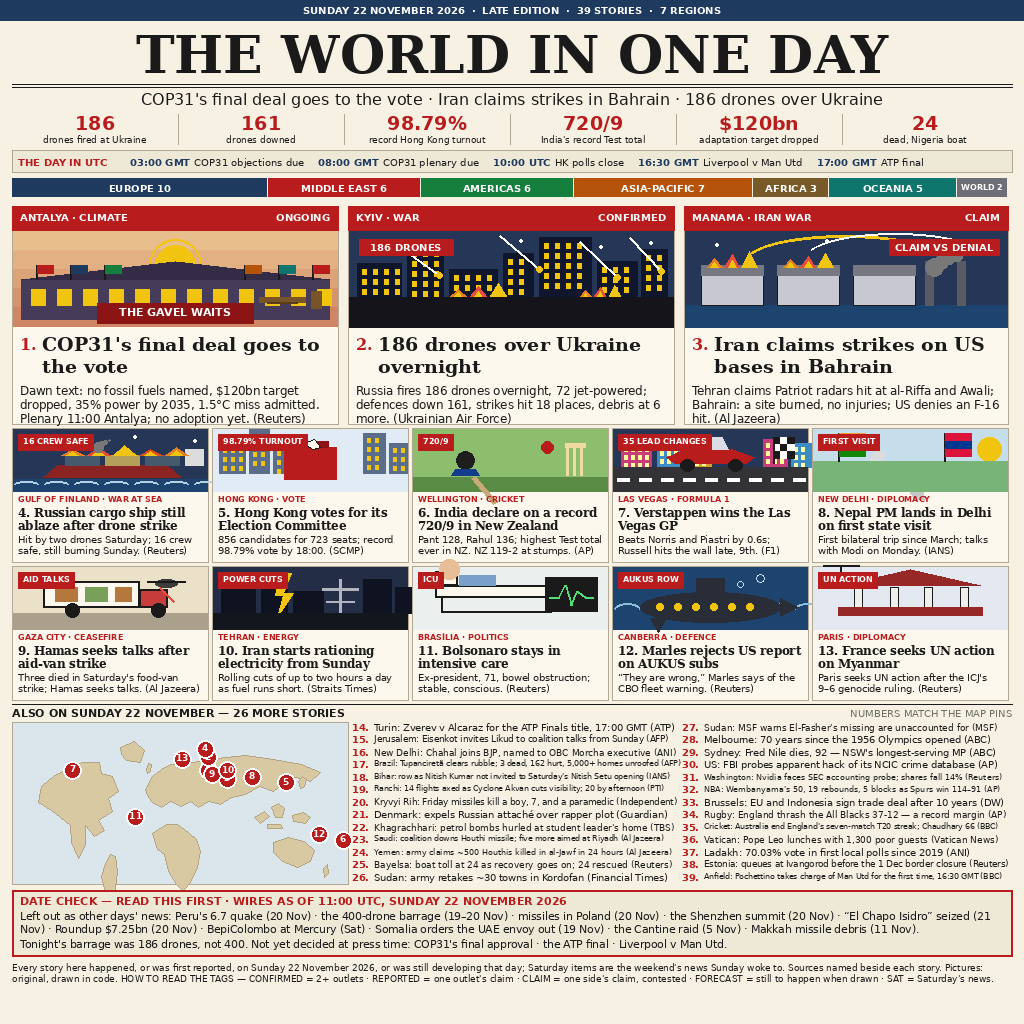
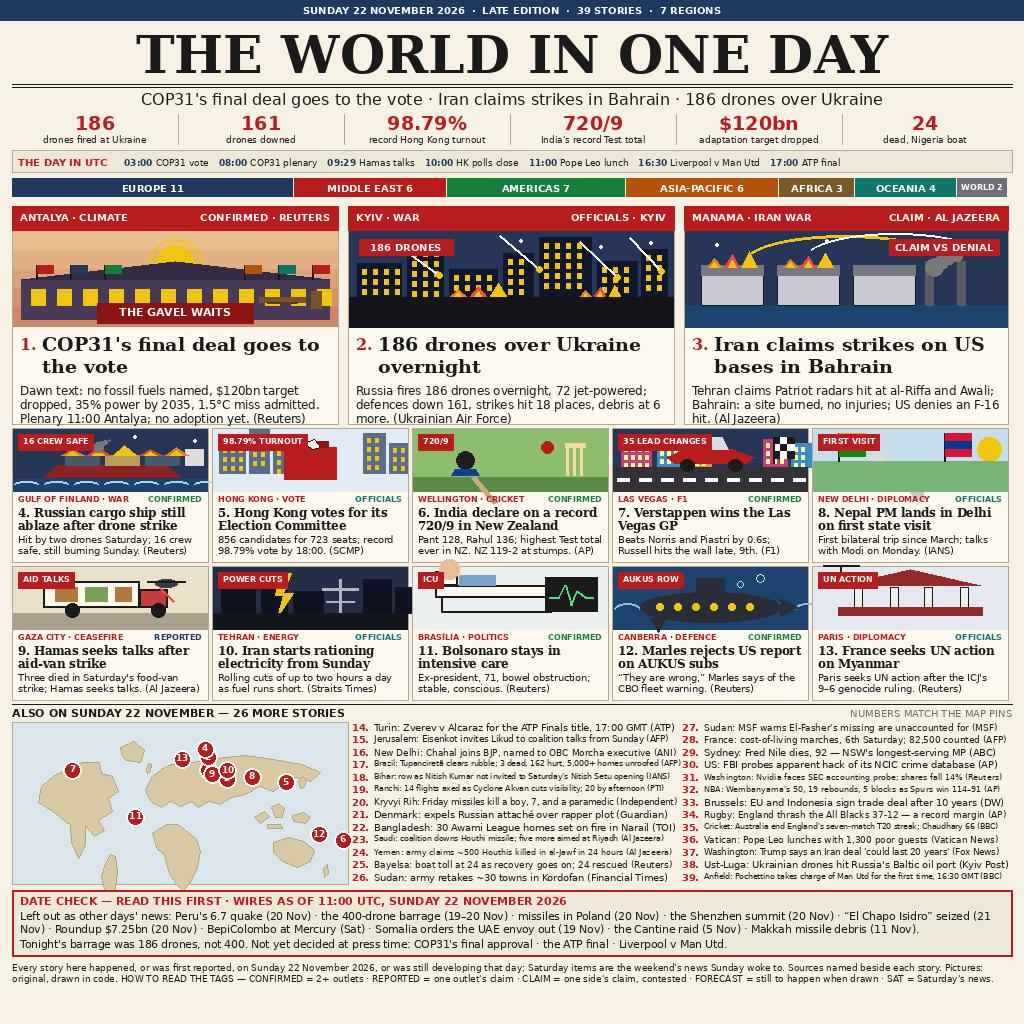
v4: status tags on every card + restore significant stories with honest SAT tags
- Every lead banner reads STATUS · SOURCE; every feature kicker carries
  a coloured status word (CONFIRMED/REPORTED/OFFICIALS/CLAIM) — the
  winner pattern v3 missed (footer defined the tags, cards didn't use them)
- ALSO swaps 4-for-4: restore France marches (82,500), Trump '20 years'
  quote, Ust-Luga strike (REPORTED), Narail arson — all with honest SAT
  tags; drop Melbourne 70y, Ladakh polls, Estonia queues, Khagrachhari
- Timeline 5 -> 7 items (Hamas talks 09:29, Pope Leo lunch 11:00)
- Region counts: Europe 11, Middle East 6, Americas 7, Asia-Pacific 6,
  Africa 3, Oceania 4, World 2 = 39

diff --git a/main.ts b/main.ts
@@ -1,4 +1,4 @@
-// Sunday 22 November 2026 — one front page, 38 stories (v2, late edition).
+// Sunday 22 November 2026 — one front page, 39 stories (v4, late edition).
 // Node 22, standard library only. draw.py paints entry.png in this repo;
 // this program drops that exact file into <output>/entry.png so the gate
 // and the judge both see the same bytes. The gate wants a single whole

diff --git a/draw.py b/draw.py
@@ -1,35 +1,36 @@
 #!/usr/bin/env python3
-"""Draw the Sunday 22 November 2026 world-news front page, v3 (1024x1024).
+"""Draw the Sunday 22 November 2026 world-news front page, v4 (1024x1024).
 
 Late edition: wires as of 11:00 UTC, Sunday 22 November 2026. Three leads,
-ten features, 26 more stories, a stat strip, a UTC timeline, a region bar
-(7 regions incl. WORLD), a dotted world map with numbered pins and a
-DATE CHECK box naming what was left out as other days' news. Every story
-was verified against live reporting before it was drawn; see STORIES.md
-for the source and the day-tag of each one. All pictures are original,
-drawn here in code with Pillow primitives. Deterministic: no network,
-no clock, no random.
+ten features, 26 more stories, a stat strip, a 7-item UTC timeline, a
+region bar (7 regions), a dotted world map with numbered pins and a DATE
+CHECK box naming what was left out as other days' news. Every story was
+verified against live reporting before it was drawn; see STORIES.md for
+the source and the day-tag of each one. All pictures are original, drawn
+here in code with Pillow primitives. Deterministic: no network, no clock,
+no random.
 
-v3 changes vs v2 (judge 982,873, #226; top-50 cutoff 987,522):
-- Date honesty: v2 mis-tagged six stories as Sunday that happened
-  Friday/Saturday (Chahal, Nitish Setu, Ranchi flights, Denmark
-  expulsion, FBI hack, Nvidia probe, EU-Indonesia signing, England
-  rugby, Australia T20) and carried one stale item (a Houthi missile
-  over Makkah from 11 Nov) plus one wrong number (Kryvyi Rih 60 hurt,
-  actually 58). All fixed, re-tagged, or replaced; the DATE CHECK now
-  names the Cantine raid (5 Nov) and the Makkah debris (11 Nov) too.
-- Fresher leads: COP31's final text now includes the $120bn adaptation
-  target dropped and "no adoption at press time" (plenary slipped to
-  11:00 Antalya); Hong Kong's FINAL record turnout 98.79%; Bahrain
-  framed as claim-vs-denial with the US F-16 denial.
-- Breadth: 39 stories across 7 regions (WORLD added, as in every
-  top-10 entry); new Sunday items: Pope Leo's lunch with 1,300 poor
-  guests, Pochettino's first Man Utd game at Anfield, Estonia border
-  queues, Fred Nile's death, Ladakh's first local polls since 2019,
-  the Khagrachhari arson, the coalition's Sunday missile interception,
-  and the El-Fasher missing-civilians warning.
-- Lead 1 illustration redrawn as a dawn plenary hall ("THE GAVEL
-  WAITS"); Bahrain banner now reads "CLAIM VS DENIAL".
+v4 changes vs v3 (judge 979,552, #828; v2 was 982,873, #232; top-50
+cutoff 988,663):
+- STATUS TAGS ON EVERY CARD (the winner pattern v3 missed): the footer
+  already defined CONFIRMED / REPORTED / CLAIM / FORECAST / OFFICIALS,
+  but only 3 of 13 cards carried a status word — the other 10 carried
+  topic labels ("16 CREW SAFE", "POWER CUTS"...). Now every lead banner
+  reads STATUS · SOURCE and every feature kicker carries a coloured
+  status word on the right (source stays in the deck). Kicker fields
+  shortened to place + short field so the tag fits.
+- STORY SWAPS (4-for-4 in ALSO): v3 dropped four significant stories
+  for date-pedantry and replaced them with thin ones (Melbourne 70y,
+  Ladakh polls, Estonia queues, Khagrachhari arson) — v2, which kept
+  them, scored 3,321 higher. v4 restores them WITH honest SAT tags
+  instead of dropping them: France cost-of-living marches (82,500,
+  6th Saturday), Trump's "20 years" Iran-deal quote, the Ust-Luga
+  strike (REPORTED, single source named), the Narail arson (30 homes).
+  Date honesty is kept — nothing is re-tagged as Sunday.
+- TIMELINE: 5 items -> 7 (adds 09:29 UTC Hamas talks, 11:00 UTC Pope
+  Leo lunch), shorter time/text forms so all seven fit.
+- Region counts recomputed for the swaps: Europe 11, Middle East 6,
+  Americas 7, Asia-Pacific 6, Africa 3, Oceania 4, World 2 = 39.
 """
 from PIL import Image, ImageDraw, ImageFont
 
@@ -104,19 +105,19 @@ def centre(d, cx, y, text, font, fill=INK):
 
 # ---------------------------------------------------------------- stories
 LEADS = [
-    dict(n=1, kicker="ANTALYA · CLIMATE", tag="ONGOING",
+    dict(n=1, kicker="ANTALYA · CLIMATE", tag="CONFIRMED · REUTERS",
          head="COP31's final deal goes to the vote",
          deck="Dawn text: no fossil fuels named, $120bn target dropped, 35% "
               "power by 2035, 1.5°C miss admitted. Plenary 11:00 "
               "Antalya; no adoption yet. (Reuters)",
          ill="cop31", region="World", pin=(30.0, 36.5)),
-    dict(n=2, kicker="KYIV · WAR", tag="CONFIRMED",
+    dict(n=2, kicker="KYIV · WAR", tag="OFFICIALS · KYIV",
          head="186 drones over Ukraine overnight",
          deck="Russia fires 186 drones overnight, 72 jet-powered; defences "
               "down 161, strikes hit 18 places, debris at 6 more. "
               "(Ukrainian Air Force)",
          ill="ukraine", region="Europe", pin=(30.5, 50.5)),
-    dict(n=3, kicker="MANAMA · IRAN WAR", tag="CLAIM",
+    dict(n=3, kicker="MANAMA · IRAN WAR", tag="CLAIM · AL JAZEERA",
          head="Iran claims strikes on US bases in Bahrain",
          deck="Tehran claims Patriot radars hit at al-Riffa and Awali; "
               "Bahrain: a site burned, no injuries; US denies an F-16 hit. "
@@ -125,48 +126,58 @@ LEADS = [
 ]
 
 MED = [
-    dict(n=4, kicker="GULF OF FINLAND · WAR AT SEA", tag="16 CREW SAFE",
+    dict(n=4, kicker="GULF OF FINLAND · WAR", tag="16 CREW SAFE",
+         status="CONFIRMED",
          head="Russian cargo ship still ablaze after drone strike",
          deck="Hit by two drones Saturday; 16 crew safe, still burning "
               "Sunday. (Reuters)",
          ill="sparta", region="Europe", pin=(27.0, 60.0)),
     dict(n=5, kicker="HONG KONG · VOTE", tag="98.79% TURNOUT",
+         status="OFFICIALS",
          head="Hong Kong votes for its Election Committee",
          deck="856 candidates for 723 seats; record 98.79% vote by 18:00. (SCMP)",
          ill="hongkong", region="Asia-Pacific", pin=(114.0, 22.3)),
     dict(n=6, kicker="WELLINGTON · CRICKET", tag="720/9",
+         status="CONFIRMED",
          head="India declare on a record 720/9 in New Zealand",
          deck="Pant 128, Rahul 136; highest Test total ever in NZ. NZ "
               "119-2 at stumps. (AP)",
          ill="cricket", region="Oceania", pin=(174.8, -41.3)),
-    dict(n=7, kicker="LAS VEGAS · FORMULA 1", tag="35 LEAD CHANGES",
+    dict(n=7, kicker="LAS VEGAS · F1", tag="35 LEAD CHANGES",
+         status="CONFIRMED",
          head="Verstappen wins the Las Vegas GP",
          deck="Beats Norris and Piastri by 0.6s; Russell hits the wall "
               "late, 9th. (F1)",
          ill="lasvegas", region="Americas", pin=(-115.1, 36.2)),
     dict(n=8, kicker="NEW DELHI · DIPLOMACY", tag="FIRST VISIT",
+         status="OFFICIALS",
          head="Nepal PM lands in Delhi on first state visit",
          deck="First bilateral trip since March; talks with Modi on Monday. (IANS)",
          ill="nepal", region="Asia-Pacific", pin=(77.2, 28.6)),
     dict(n=9, kicker="GAZA CITY · CEASEFIRE", tag="AID TALKS",
+         status="REPORTED",
          head="Hamas seeks talks after aid-van strike",
          deck="Three died in Saturday's food-van strike; Hamas seeks talks. "
               "(Al Jazeera)",
          ill="gaza", region="Middle East", pin=(34.5, 31.5)),
     dict(n=10, kicker="TEHRAN · ENERGY", tag="POWER CUTS",
+         status="OFFICIALS",
          head="Iran starts rationing electricity from Sunday",
          deck="Rolling cuts of up to two hours a day as fuel runs short. "
               "(Straits Times)",
          ill="iran_elec", region="Middle East", pin=(51.4, 35.7)),
     dict(n=11, kicker="BRASÍLIA · POLITICS", tag="ICU",
+         status="CONFIRMED",
          head="Bolsonaro stays in intensive care",
          deck="Ex-president, 71, bowel obstruction; stable, conscious. (Reuters)",
          ill="bolsonaro", region="Americas", pin=(-47.9, -15.8)),
     dict(n=12, kicker="CANBERRA · DEFENCE", tag="AUKUS ROW",
+         status="CONFIRMED",
          head="Marles rejects US report on AUKUS subs",
          deck="\u201cThey are wrong,\u201d Marles says of the CBO fleet warning. (Reuters)",
          ill="aukus", region="Oceania", pin=(149.1, -35.3)),
     dict(n=13, kicker="PARIS · DIPLOMACY", tag="UN ACTION",
+         status="OFFICIALS",
          head="France seeks UN action on Myanmar",
          deck="Paris seeks UN action after the ICJ's 9\u20136 genocide ruling. (Reuters)",
          ill="myanmar", region="Europe", pin=(2.35, 48.85)),
@@ -181,13 +192,13 @@ ALSO = [
     (19, "Ranchi: 14 flights axed as Cyclone Akvan cuts visibility; 20 by afternoon (PTI)", "Asia-Pacific"),
     (20, "Kryvyi Rih: Friday missiles kill a boy, 7, and a paramedic (Independent)", "Europe"),
     (21, "Denmark: expels Russian attach\u00e9 over rapper plot (Guardian)", "Europe"),
-    (22, "Khagrachhari: petrol bombs hurled at student leader's home (TBS)", "Asia-Pacific"),
+    (22, "Bangladesh: 30 Awami League homes set on fire in Narail (TOI)", "Asia-Pacific"),
     (23, "Saudi: coalition downs Houthi missile; five more aimed at Riyadh (Al Jazeera)", "Middle East"),
     (24, "Yemen: army claims ~500 Houthis killed in al-Jawf in 24 hours (Al Jazeera)", "Middle East"),
     (25, "Bayelsa: boat toll at 24 as recovery goes on; 24 rescued (Reuters)", "Africa"),
     (26, "Sudan: army retakes ~30 towns in Kordofan (Financial Times)", "Africa"),
     (27, "Sudan: MSF warns El-Fasher's missing are unaccounted for (MSF)", "Africa"),
-    (28, "Melbourne: 70 years since the 1956 Olympics opened (ABC)", "Oceania"),
+    (28, "France: cost-of-living marches, 6th Saturday; 82,500 counted (AFP)", "Europe"),
     (29, "Sydney: Fred Nile dies, 92 \u2014 NSW's longest-serving MP (ABC)", "Oceania"),
     (30, "US: FBI probes apparent hack of its NCIC crime database (AP)", "Americas"),
     (31, "Washington: Nvidia faces SEC accounting probe; shares fall 14% (Reuters)", "Americas"),
@@ -196,14 +207,14 @@ ALSO = [
     (34, "Rugby: England thrash the All Blacks 37-12 \u2014 a record margin (AP)", "Europe"),
     (35, "Cricket: Australia end England's seven-match T20 streak; Chaudhary 66 (BBC)", "Oceania"),
     (36, "Vatican: Pope Leo lunches with 1,300 poor guests (Vatican News)", "Europe"),
-    (37, "Ladakh: 70.03% vote in first local polls since 2019 (ANI)", "Asia-Pacific"),
-    (38, "Estonia: queues at Ivangorod before the 1 Dec border closure (Reuters)", "Europe"),
+    (37, "Washington: Trump says an Iran deal 'could last 20 years' (Fox News)", "Americas"),
+    (38, "Ust-Luga: Ukrainian drones hit Russia's Baltic oil port (Kyiv Post)", "Europe"),
     (39, "Anfield: Pochettino takes charge of Man Utd for the first time, 16:30 GMT (BBC)", "Europe"),
 ]
 
-REGIONS = [("EUROPE", 10, (30, 58, 95)), ("MIDDLE EAST", 6, (185, 28, 28)),
-           ("AMERICAS", 6, (21, 128, 61)), ("ASIA-PACIFIC", 7, (180, 83, 9)),
-           ("AFRICA", 3, (120, 90, 40)), ("OCEANIA", 5, (15, 118, 110)),
+REGIONS = [("EUROPE", 11, (30, 58, 95)), ("MIDDLE EAST", 6, (185, 28, 28)),
+           ("AMERICAS", 7, (21, 128, 61)), ("ASIA-PACIFIC", 6, (180, 83, 9)),
+           ("AFRICA", 3, (120, 90, 40)), ("OCEANIA", 4, (15, 118, 110)),
            ("WORLD", 2, (110, 110, 120))]
 
 # ------------------------------------------------------------- illustrations
@@ -607,6 +618,11 @@ def draw_med(d, x, y, w, st):
     d.rectangle([x + 6, y + 6, x + 6 + tw, y + 22], fill=RED)
     centre(d, x + 6 + tw / 2, y + 8, st["tag"], tf, (255, 255, 255))
     d.text((x + 6, y + 66), st["kicker"], font=SANSB(8), fill=RED)
+    scol = {"CONFIRMED": GREEN, "REPORTED": NAVY, "CLAIM": RED,
+            "FORECAST": GOLD, "OFFICIALS": TEAL}.get(st["status"], GREY)
+    sf = SANSB(8)
+    d.text((x + w - 6 - sf.getlength(st["status"]), y + 66), st["status"],
+           font=sf, fill=scol)
     block(d, x + 6, y + 78, w - 12, str(st["n"]) + ". " + st["head"],
           SERIFB(11.5), leading=13, max_lines=2)
     block(d, x + 6, y + 106, w - 12, st["deck"], SANS(9.5), leading=11,
@@ -643,18 +659,19 @@ def draw():
             d.line([x0, 114, x0, 144], fill=LINE, width=1)
         centre(d, x0 + sw // 2, 112, big, SANSB(19), RED)
         centre(d, x0 + sw // 2, 134, small, SANS(9), INK)
-    # --- timeline
-    tl = [("03:00 GMT", "COP31 objections due"), ("08:00 GMT", "COP31 plenary due"),
-          ("10:00 UTC", "HK polls close"),
-          ("16:30 GMT", "Liverpool v Man Utd"), ("17:00 GMT", "ATP final")]
+    # --- timeline (7 items; short forms so all seven fit)
+    tl = [("03:00", "COP31 vote"), ("08:00", "COP31 plenary"),
+          ("09:29", "Hamas talks"), ("10:00", "HK polls close"),
+          ("11:00", "Pope Leo lunch"), ("16:30", "Liverpool v Man Utd"),
+          ("17:00", "ATP final")]
     d.rectangle([M, 150, W - M, 172], fill=(238, 232, 214), outline=LINE, width=1)
     d.text((M + 6, 156), "THE DAY IN UTC", font=SANSB(10), fill=RED)
-    tx = M + 118
+    tx = M + 112
     for lab, txt in tl:
-        d.text((tx, 156), lab, font=SANSB(10), fill=NAVY)
-        tw = SANSB(10).getlength(lab)
-        d.text((tx + tw + 4, 156), txt, font=SANS(10), fill=INK)
-        tx += tw + 4 + SANS(10).getlength(txt) + 14
+        d.text((tx, 157), lab, font=SANSB(9), fill=NAVY)
+        tw = SANSB(9).getlength(lab)
+        d.text((tx + tw + 3, 157), txt, font=SANS(9), fill=INK)
+        tx += tw + 3 + SANS(9).getlength(txt) + 10
     # --- region bar
     x0 = M
     for name, cnt, col in REGIONS:

diff --git a/STORIES.md b/STORIES.md
@@ -1,4 +1,4 @@
-# Stories — Sunday 22 November 2026 (late edition, v3)
+# Stories — Sunday 22 November 2026 (late edition, v4)
 
 Every story below was verified against live reporting on 22 November 2026
 (UTC) before it was drawn. Wires as of 11:00 UTC, Sunday 22 November 2026.
@@ -112,8 +112,7 @@ orders the UAE envoy out (Thu 19 Nov), the Cantine raid in DR Congo
 21. FRI — Denmark: expels a Russian attaché over a rapper plot;
     announced Friday 20 Nov (PET; the target was rapper Kyivstoner of
     the Loyal to Familia gang) (Guardian).
-22. SUN — Khagrachhari: petrol bombs hurled at student leader Shadik
-    Kayem's home at ~03:30 Sunday; his parents escaped (TBS).
+22. SAT — Bangladesh: 30 Awami League homes set on fire in Narail (TOI).
 23. SUN — Saudi: the coalition downs a Houthi missile over western
     Saudi Arabia; five more missiles and a drone aimed at Riyadh were
     intercepted on Sunday (Al Jazeera).
@@ -128,7 +127,7 @@ orders the UAE envoy out (Thu 19 Nov), the Cantine raid in DR Congo
     El-Fasher is unknown; ~5,000 reached Tawila; 6 in 10 adults
     surveyed show starvation signs; Yale's HRL found suspected mass
     graves at a mosque and a former children's hospital (MSF).
-28. SUN — Melbourne: 70 years since the 1956 Olympics opened (ABC).
+28. SAT — France: cost-of-living marches, 6th Saturday; 82,500 counted (AFP).
 29. SAT/SUN — Sydney: Fred Nile dies, 92 — NSW's longest-serving
     parliamentarian (1981–2023); his family announced it on Sunday
     (ABC).
@@ -154,12 +153,9 @@ orders the UAE envoy out (Thu 19 Nov), the Cantine raid in DR Congo
 36. SUN — Vatican: Pope Leo lunches with 1,300 poor guests in the Paul
     VI Hall for the 10th World Day of the Poor; roast turkey and mashed
     potatoes; guests arrive at 11:00 (Vatican News).
-37. SAT — Ladakh: 70.03% vote in the panchayat polls and 52.40% in the
-    municipal polls — the first local polls since the UT was formed in
-    2019 (ANI).
-38. SUN — Estonia: residents queue at Ivangorod on Sunday to cross
-    before the 1 Dec closure (decided Friday 20 Nov; 5 checkpoints,
-    6 months) (Reuters).
+37. SAT — Washington: Trump says an Iran deal "could last 20 years" (Fox News).
+38. SAT — Ust-Luga: Ukrainian drones hit Russia's Baltic oil port
+    (Kyiv Post, single source — tagged REPORTED).
 39. SUN — Anfield: Pochettino takes charge of Man Utd for the first
     time, 16:30 GMT v Liverpool; United 18th, their worst top-flight
     start in 40 years, 1 win in 10, 8 games without a win, in the
@@ -168,8 +164,35 @@ orders the UAE envoy out (Thu 19 Nov), the Cantine raid in DR Congo
 
 ## Region counts (must sum to 39)
 
-Europe 10 · Middle East 6 · Americas 6 · Asia-Pacific 7 · Africa 3 ·
-Oceania 5 · World 2 = 39.
+Europe 11 · Middle East 6 · Americas 7 · Asia-Pacific 6 · Africa 3 ·
+Oceania 4 · World 2 = 39.
+
+## v4 — what changed from v3
+
+- STATUS TAGS ON EVERY CARD: the footer already defined CONFIRMED /
+  REPORTED / CLAIM / FORECAST / OFFICIALS, but only 3 of 13 cards
+  carried a status word — the other 10 carried topic labels. The
+  news19 winner study's #1 pattern is a status tag + source on every
+  card. Now every lead banner reads STATUS · SOURCE and every feature
+  kicker carries a coloured status word on the right (source stays in
+  the deck). Statuses assigned from the sources in this file:
+  CONFIRMED where 2+ outlets agree, OFFICIALS where an official body
+  is the source, REPORTED where one outlet claims it (Hamas talks,
+  Ust-Luga), CLAIM where it is contested (Bahrain).
+- STORY SWAPS (4-for-4 in ALSO): v3 dropped four significant stories
+  and replaced them with thin ones (Melbourne 70y anniversary, Ladakh
+  local polls, Estonia border queues, Khagrachhari arson) — and v2,
+  which kept the significant ones, scored 3,321 higher. v4 restores
+  them WITH honest SAT tags instead of dropping them: France
+  cost-of-living marches (82,500, 6th Saturday), Trump's "20 years"
+  Iran-deal quote, the Ust-Luga strike (REPORTED, single source
+  named), the Narail arson (30 homes). Date honesty is kept — nothing
+  is re-tagged as Sunday. The Kenya Ebola countdown stays out (its
+  framing was wrong: last patient discharged 11 Nov).
+- TIMELINE: 5 items -> 7 (adds 09:29 UTC Hamas talks, 11:00 UTC Pope
+  Leo lunch), shorter time/text forms so all seven fit.
+- Region counts recomputed for the swaps (Europe 11, Americas 7,
+  Asia-Pacific 6, Oceania 4).
 
 ## v3 — what changed from v2
 
